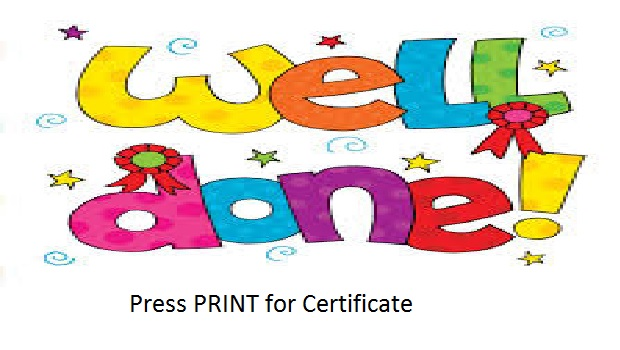
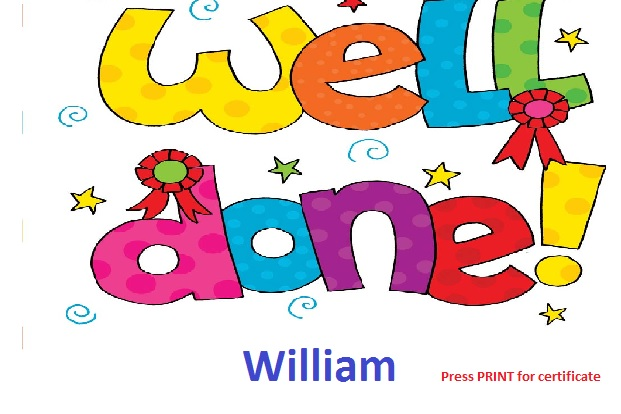
New file print.html, window.open and new image
Preparation for creating a printable certificate

diff --git a/HTML/index.html b/HTML/index.html
@@ -28,11 +28,12 @@
  
  <div class="ui-widget" style="position: relative; top: -125px; left: 475px">
   <label for="tags">I am a : </label>
-  <input id="tags">
+  <input id="tags" autofocus>
 </div>
 
 <form>
-<input type="button" value="PRINT" style = "position:relative;top:-150;left:300" onClick="window.print()" >
+<input type="button" value="PRINT" style = "position:relative;top:-450px;left:1080px" onClick="certWindow = window.open('print.html','print.html');"> 
+
 </form>
   
 </body>

diff --git a/JS/Javascript.js b/JS/Javascript.js
@@ -67,7 +67,6 @@ name = new CanvasInput
 
 function updateAnswer()
 {   
-    //animal.slideDown()
     currentAnswerIndex = (currentAnswerIndex + 1) % answers.length;
     var answerObject = answers[currentAnswerIndex];
     expectedAnswer = answerObject.answer;
@@ -125,6 +124,7 @@ function play()
     ctx.fillText("What am I?",450,300);
      ctx.fillStyle = "rgba(211, 40, 217, 0.72)";
     ctx.fillText("Your Points",960,325);
+     
     points();
 }
 

diff --git a/HTML/print.html b/HTML/print.html
@@ -1,0 +1,1 @@
+<img src="../Images/cert.jpg"/>
